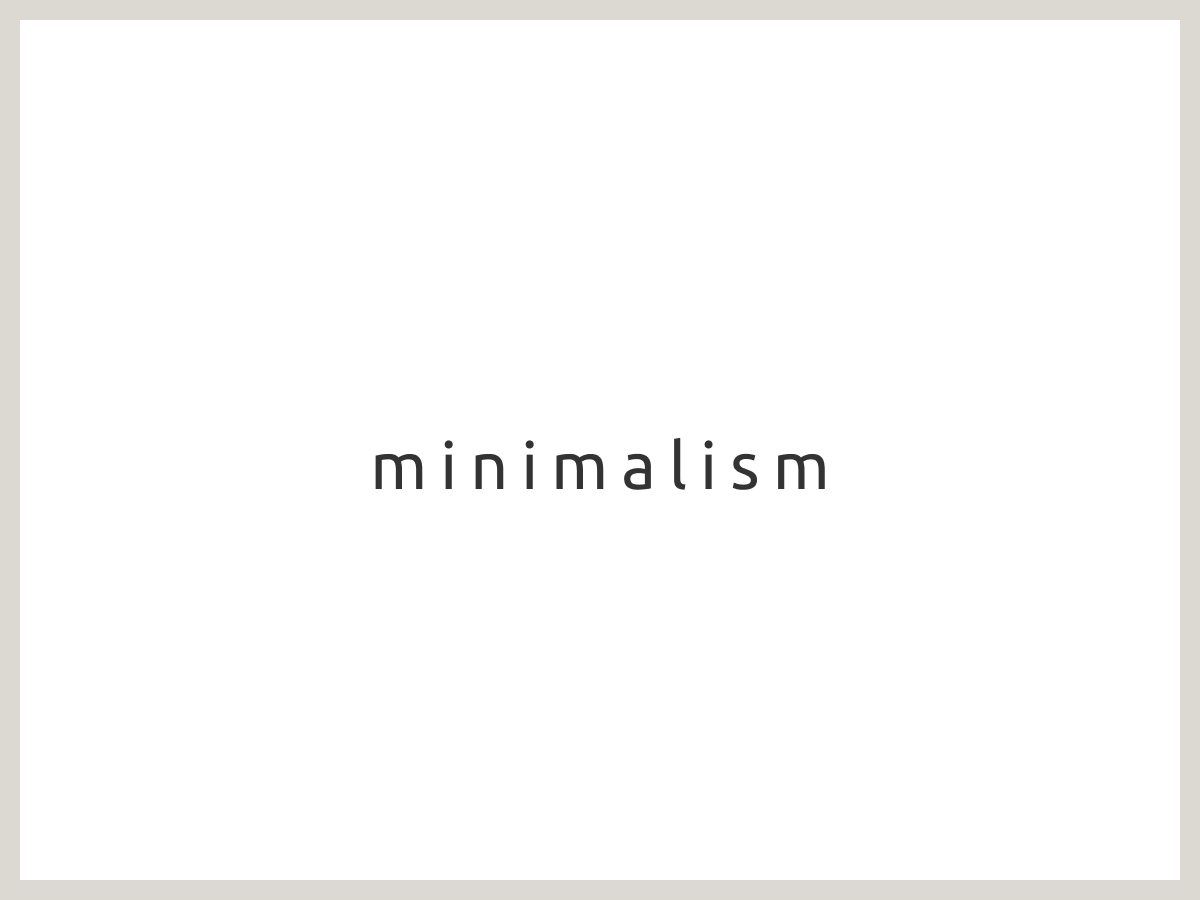
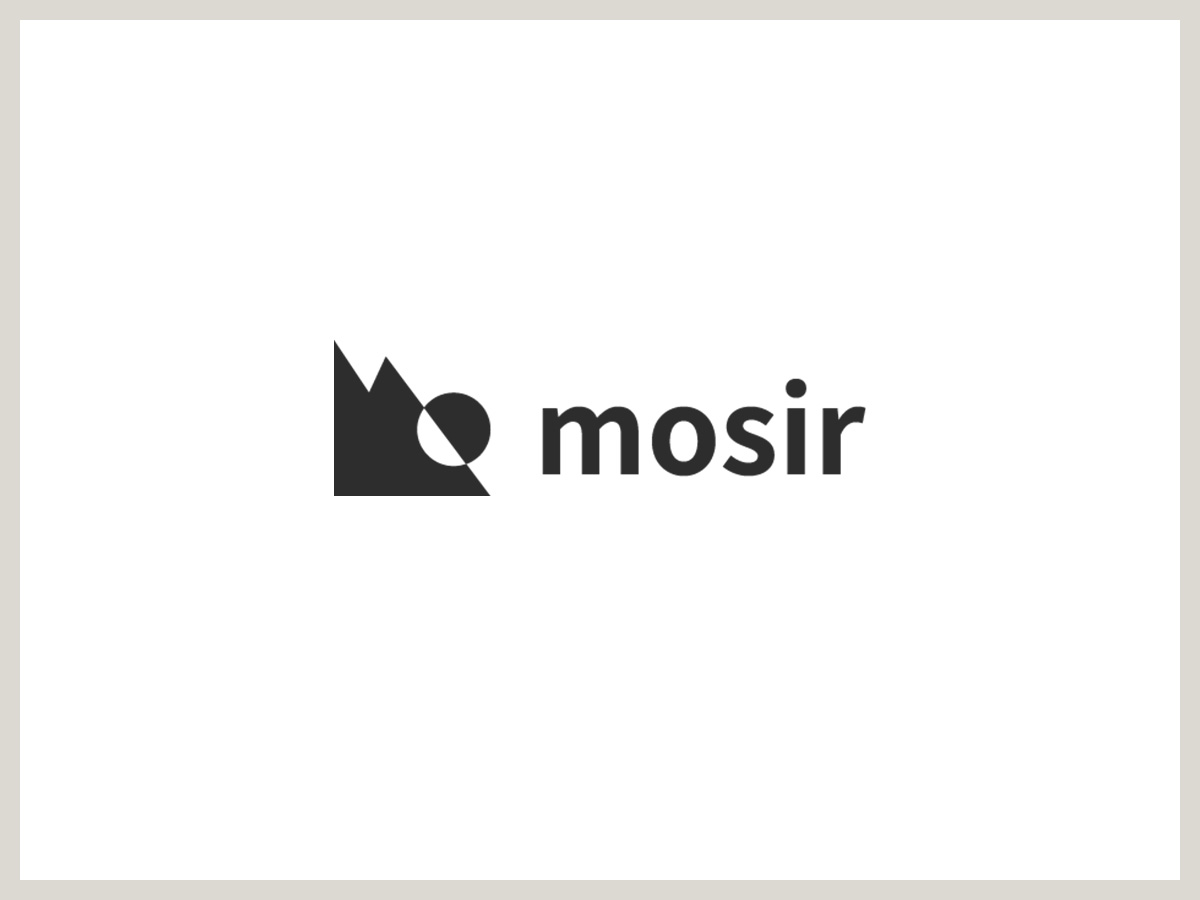
テーマ名を mosir で確定

Changed region(s): [[0.2775, 0.3733, 0.74, 0.56]]

diff --git a/style.css b/style.css
@@ -1,15 +1,15 @@
 /*!
-Theme Name: minimalism
-Theme URI: https://minimalism.webbingstudio.com/
+Theme Name: mosir
+Theme URI: https://mosir.webbingstudio.com/
 Author: WebbingStudio
 Author URI: https://webbingstudio.com/
-Description: A minimalist Scaffold Hybrid theme suitable for those who manage websites in an organized team. It is primarily built for Japanese business sites.
+Description: "mosir" (mo-shi-ri) is a hybrid theme suitable for website management by organized teams. Main features: Coding with long-term operation in mind / High accessibility / Block editor support / Various navigation patterns / Color and margin management with "theme.json".
 Requires at least: 6.7
 Tested up to: 6.8.2
 Requires PHP: 8.1
 Version: 1.0
 License: GNU General Public License v2 or later
 License URI: http://www.gnu.org/licenses/gpl-2.0.html
-Text Domain: ws-minimalism
-Tags: custom-colors, custom-menu, featured-images, sticky-post, wide-blocks, theme-options, editor-style, blog, news
+Text Domain: mosir
+Tags: accessibility-ready, custom-colors, custom-logo, custom-menu, featured-images, sticky-post, wide-blocks, theme-options, editor-style, blog, news
 */

diff --git a/assets/js/theme.js b/assets/js/theme.js
@@ -1,7 +1,7 @@
 /**
  * Drawer toggle button
  *
- * since minimalism 1.0
+ * since mosir 1.0
  */
 const miDrawerToggle = function() {
     // drawer duration - see: src/scss/global/_variables-css.scss

diff --git a/src/scss/editor-style.scss b/src/scss/editor-style.scss
@@ -1,5 +1,5 @@
 // ==============================
-// minimalism: editor-style.scss
+// mosir: editor-style.scss
 // ==============================
 @use "global";
 @use "foundation";

diff --git a/src/scss/theme.scss b/src/scss/theme.scss
@@ -1,5 +1,5 @@
 // ==============================
-// minimalism: theme.scss
+// mosir: theme.scss
 // ==============================
 @use "global";
 @use "foundation";

diff --git a/functions.php b/functions.php
@@ -1,8 +1,8 @@
 <?php
 /**
- * minimalism functions and definitions
+ * mosir functions and definitions
  *
- * @package ws-minimalism
+ * @package mosir
  */
 
 
@@ -52,7 +52,7 @@ if ( ! function_exists( 'mi_enqueue_styles' ) ) :
 	/**
 	 * Enqueues theme.css on the front.
 	 *
-	 * @since minimalism 1.0
+	 * @since mosir 1.0
 	 *
 	 * @return void
 	 */
@@ -84,7 +84,7 @@ if ( ! function_exists( 'mi_enqueue_scripts' ) ) :
 	/**
 	 * Enqueues theme.css on the front.
 	 *
-	 * @since minimalism 1.0
+	 * @since mosir 1.0
 	 *
 	 * @return void
 	 */
@@ -105,7 +105,7 @@ if ( ! function_exists( 'mi_editor_style' ) ) :
 	/**
 	 * Enqueues editor-style.css in the editors.
 	 *
-	 * @since minimalism 1.0
+	 * @since mosir 1.0
 	 *
 	 * @return void
 	 */
@@ -121,7 +121,7 @@ if ( ! function_exists( 'mi_enqueue_block_editor_assets' ) ) :
 	/**
 	 * Enqueues editor-script.js in the editors.
 	 *
-	 * @since minimalism 1.0
+	 * @since mosir 1.0
 	 *
 	 * @return void
 	 */
@@ -146,7 +146,7 @@ if ( ! function_exists( 'mi_redistar_nav_menu' ) ) :
 	/**
 	 * Define the menus to use within the theme
 	 *
-	 * @since minimalism 1.0
+	 * @since mosir 1.0
 	 *
 	 * @return string
 	 */
@@ -175,7 +175,7 @@ if ( ! function_exists( 'mi_nav_menu_link_attributes' ) ) :
 	/**
 	 * If the currently displayed menu has the mega menu (.p-megaMenu) class assigned, focus on links from the second level onwards will be skipped.
 	 *
-	 * @since minimalism 1.0
+	 * @since mosir 1.0
 	 *
 	 * @return void
 	 */
@@ -197,7 +197,7 @@ if ( ! function_exists( 'mi_wp_block_class' ) ) :
 	/**
 	 * Echo WordPress BlockEditor class name
 	 *
-	 * @since minimalism 1.0
+	 * @since mosir 1.0
 	 *
 	 * @param string $before The string to prepend, such as a space.
 	 * @param string $after The string to append, such as a space.

diff --git a/template-parts/loop-media.php b/template-parts/loop-media.php
@@ -4,7 +4,7 @@
  * Repeated sections of a post, with featured image on the left and content on the right.
  * The entire loop is enclosed in a link.
  *
- * @package ws-minimalism
+ * @package mosir
  */
 ?>
 <article class="mi-p-posts__item mi-p-media">

diff --git a/template-parts/loop-card.php b/template-parts/loop-card.php
@@ -4,7 +4,7 @@
  * Repeated sections of a post, with featured image on the top and content on the bottom.
  * The entire loop is enclosed in a link.
  *
- * @package ws-minimalism
+ * @package mosir
  */
 ?>
 <article class="mi-p-posts__item mi-p-card">

diff --git a/template-parts/loop-headline.php b/template-parts/loop-headline.php
@@ -6,7 +6,7 @@
  * Only the first term label in a post is displayed.
  * Post meta will be aligned in a single line if the window width is wide.
  *
- * @package ws-minimalism
+ * @package mosir
  */
 ?>
 <article class="mi-p-posts__item mi-p-headline">

diff --git a/template-parts/pager-single.php b/template-parts/pager-single.php
@@ -3,7 +3,7 @@
  * pager-single.php
  * ページネーション用テンプレート（固定ページ・フロントページ）
  *
- * @package ws-minimalism
+ * @package mosir
  */
 ?>
 <p>ページネーション =============</p>

diff --git a/template-parts/loop-media-no-meta.php b/template-parts/loop-media-no-meta.php
@@ -5,7 +5,7 @@
  * The entire loop is enclosed in a link.
  * Post meta information such as date, term, etc. is not displayed.
  *
- * @package ws-minimalism
+ * @package mosir
  */
 ?>
 <article class="mi-p-posts__item mi-p-media">

diff --git a/template-parts/loop-card-no-meta.php b/template-parts/loop-card-no-meta.php
@@ -6,7 +6,7 @@
  * Post meta information such as date, term, etc. is not displayed.
  * Show an excerpt of the content.
  *
- * @package ws-minimalism
+ * @package mosir
  */
 ?>
 <article class="mi-p-posts__item mi-p-card">

diff --git a/template-parts/loop-headline-no-meta.php b/template-parts/loop-headline-no-meta.php
@@ -4,7 +4,7 @@
  * Repeated sections of a posts only title.
  * The entire loop is enclosed in a link.
  *
- * @package ws-minimalism
+ * @package mosir
  */
 ?>
 <article class="mi-p-posts__item mi-p-headline">
